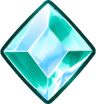
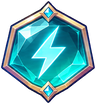
thap: HUD anime B2 (2/4) — css/hud-anime.css + js/hud-anime.js (html.ha2 khi đủ ảnh, thiếu ảnh → HUD cũ): thanh trên 3 khoang (đợt · trùm + thanh phân đoạn %/đếm ngược · tim), nền trời + mặt bàn + đường đá (REN.diu đổi ảnh, toạ độ giữ nguyên), băng chiêu trùm 1 dòng, đáy: ô mana teal, SUMMON tròn, 2
Claude-Session: https://claude.ai/code/session_01KQA7LFBkcdkiPiLcwYs7V2

diff --git a/thap/css/hud-anime.css b/thap/css/hud-anime.css
@@ -1,0 +1,185 @@
+/* TURRET MERGE — HUD TRẬN ANIME "Royal Twilight" (B2 09/11, js/hud-anime.js). Chỉ có hiệu lực khi html.ha2 (mọi ảnh ha_* đã tải).
+   Bảng màu (huong-anime/BANG-MAU.md): nền #10162F · panel #212B50 · viền champagne #E9CCA0 · nhấn cyan #71E4EE · CTA #FFB866/chữ #172040 ·
+   chữ #F7F8FF · cảnh báo #FF5E80 · mana teal #25D6C0 · máu trùm #D55BEA. Toạ độ = khung 430×860 (#wrap). Nạp CUỐI để thắng các lớp HUD cũ. */
+html.ha2 body #wrap { background: #10162F; }
+
+/* ================= THANH TRÊN (56 px ≈ 51 px màn 390) ================= */
+html.ha2 body #wrap #top { left: 0 !important; right: auto !important; top: 2px !important; width: 430px !important; height: 56px !important; padding: 0 !important;
+  background: url(../assets/ha_top.png) center / 100% 100% no-repeat !important; border: 0 !important; border-image: none !important; box-shadow: none !important; display: block !important; }
+html.ha2 body #wrap #top::before, html.ha2 body #wrap #top::after { content: none !important; display: none !important; }
+/* khoang trái: ĐỢT N */
+html.ha2 body #wrap #top #tb-wave { position: absolute !important; left: 30px !important; top: 13px !important; width: 82px !important; height: 31px !important; margin: 0 !important; padding: 0 !important;
+  display: flex !important; align-items: center !important; justify-content: center !important; gap: 5px !important; background: none !important; border: 0 !important; transform: none !important; }
+html.ha2 body #wrap #top #tb-wave::before, html.ha2 body #wrap #top #tb-wave::after, html.ha2 body #wrap #top #tb-wave .ht-ic { display: none !important; }
+html.ha2 body #wrap #top #tb-wave span { position: static !important; font: 800 11px/1 'TM UI', sans-serif !important; color: #E9CCA0 !important; letter-spacing: .04em; text-transform: uppercase; text-shadow: 0 1px 2px #000 !important; transform: none !important; }
+html.ha2 body #wrap #top #tb-wave b { position: static !important; font: 800 22px/1 'TM Display', sans-serif !important; color: #F7F8FF !important; text-shadow: 0 1px 3px #000, 0 0 8px rgba(113,228,238,.35) !important; transform: none !important; }
+/* khoang giữa: tên trùm / "Trùm sau N" + thanh phân đoạn + % máu / đếm ngược */
+html.ha2 body #wrap #top #tb-giua { position: absolute !important; left: 120px !important; top: 12px !important; width: 190px !important; height: 33px !important; margin: 0 !important; padding: 0 !important;
+  background: none !important; border: 0 !important; display: block !important; transform: none !important; animation: none !important; }
+html.ha2 body #wrap #top #tb-giua::before, html.ha2 body #wrap #top #tb-giua::after { display: none !important; }
+html.ha2 body #wrap #top #tb-trum { position: absolute !important; left: 0 !important; right: 0 !important; top: 2px !important; height: 15px !important; margin: 0 !important; padding: 0 !important; display: block !important;
+  background: none !important; border: 0 !important; transform: none !important; animation: none !important; }
+html.ha2 body #wrap #top #tb-trum > img, html.ha2 body #wrap #top #tb-trum .vt-chip, html.ha2 body #wrap #top #tb-trum::before, html.ha2 body #wrap #top #tb-trum::after { display: none !important; }
+html.ha2 body #wrap #top #tb-trum-chu { position: absolute !important; left: 0 !important; right: 0 !important; top: 0 !important; display: block !important; text-align: center !important; white-space: nowrap !important; overflow: hidden !important; text-overflow: clip !important;
+  font: 800 12.5px/15px 'TM UI', sans-serif !important; letter-spacing: .03em; color: #F7F8FF !important; text-transform: uppercase; text-shadow: 0 1px 2px #000 !important; transform: none !important; animation: none !important; }
+html.ha2 body #wrap #top #tb-seg, html.ha2 body #wrap #top #tb-trum-mau { display: none !important; }
+html.ha2 body #wrap #top #ha-thanh { position: absolute; left: 6px; right: 40px; top: 20px; height: 8px; background: url(../assets/ha_mau_ranh.png) 0 0 / 100% 100% no-repeat; }
+html.ha2 body #wrap #top #ha-thanh .f { position: absolute; left: 0; top: 0; bottom: 0; width: 0; background: url(../assets/ha_mau_xanh.png) 0 0 / 178px 8px no-repeat; transition: width .25s linear; }
+html.ha2 body #wrap #top #ha-thanh.trum .f { background-image: url(../assets/ha_mau_trum.png); }
+html.ha2 body #wrap #top #ha-so { position: absolute; right: 2px; top: 16px; width: 36px; text-align: right; font: 800 12px/15px 'TM Display', sans-serif; font-style: normal; color: #71E4EE; text-shadow: 0 1px 2px #000; white-space: nowrap; }
+html.ha2 body #wrap #top #ha-so.trum { color: #F1A9FF; }
+/* khoang phải: tim N/3 (PVP: BẠN + tấm treo ĐỐI THỦ; CO-OP: tấm treo CHUNG) */
+html.ha2 body #wrap #top #tb-tim { position: absolute !important; left: 322px !important; top: 13px !important; width: 80px !important; height: 31px !important; margin: 0 !important; padding: 0 !important;
+  display: flex !important; align-items: center !important; justify-content: center !important; gap: 2px !important; background: none !important; border: 0 !important; transform: none !important; }
+html.ha2 body #wrap #top #tb-tim::before, html.ha2 body #wrap #top #tb-tim::after { display: none !important; content: none !important; }
+html.ha2 body #wrap #top #tb-tim .ht-tim, html.ha2 body #wrap #top #ht-phu .ht-tim { position: static !important; width: 17px !important; height: 15px !important; margin: 0 2px 0 0 !important; filter: none !important; }
+html.ha2 body #wrap #top #tb-tim .ht-n, html.ha2 body #wrap #top #ht-phu .ht-n { position: static !important; font: 800 21px/1 'TM Display', sans-serif !important; color: #F7F8FF !important; text-shadow: 0 1px 3px #000 !important; }
+html.ha2 body #wrap #top #tb-tim .ht-n.nguy, html.ha2 body #wrap #top #ht-phu .ht-n.nguy { color: #FF5E80 !important; }
+html.ha2 body #wrap #top #tb-tim .ht-max, html.ha2 body #wrap #top #ht-phu .ht-max { position: static !important; font: 800 12px/1 'TM Display', sans-serif !important; color: #B8C0E0 !important; align-self: flex-end; margin-bottom: 6px; }
+html.ha2 body #wrap #top #tb-tim .ht-ai { position: static !important; font: 800 9px/1 'TM UI', sans-serif !important; color: #71E4EE !important; margin-right: 3px !important; text-transform: uppercase; }
+html.ha2 body #wrap #top #ht-phu { position: absolute !important; right: 26px !important; left: auto !important; top: 52px !important; height: 22px !important; width: auto !important; min-width: 70px; padding: 0 10px !important;
+  display: flex !important; align-items: center !important; justify-content: center !important; gap: 2px !important; background: url(../assets/ha_o_rong.png) center / 100% 100% no-repeat !important; border: 0 !important; border-image: none !important; box-shadow: none !important; transform: none !important; }
+html.ha2 body #wrap #top #ht-phu[hidden] { display: none !important; }
+html.ha2 body #wrap #top #ht-phu::before, html.ha2 body #wrap #top #ht-phu::after { display: none !important; }
+html.ha2 body #wrap #top #ht-phu .ht-ai { font: 800 9px/1 'TM UI', sans-serif !important; color: #FF8FA6 !important; margin-right: 3px !important; text-transform: uppercase; position: static !important; }
+html.ha2 body #wrap #top #ht-phu.xanh .ht-ai { color: #71E4EE !important; }
+html.ha2 body #wrap #top #ht-phu .ht-tim { width: 12px !important; height: 11px !important; }
+html.ha2 body #wrap #top #ht-phu .ht-n { font-size: 14px !important; }
+html.ha2 body #wrap #top #ht-phu .ht-max { font-size: 9px !important; margin-bottom: 3px; }
+
+/* ================= BĂNG BÁO CHIÊU TRÙM (1 dòng, 330×36) — thay băng cũ #canh-bao ================= */
+html.ha2 body #wrap #canh-bao { display: none !important; }
+html.ha2 body #wrap #ha-cb { position: absolute; left: 50px; width: 330px; height: 36px; top: 580px; z-index: 6; pointer-events: none;
+  background: url(../assets/ha_canh.png) center / 100% 100% no-repeat; display: flex; align-items: center; justify-content: center; gap: 12px; padding: 0 30px; box-sizing: border-box; }
+html.ha2 body #wrap #ha-cb[hidden] { display: none; }
+html.ha2 body #wrap #ha-cb.hep { left: 12px; width: 270px; padding: 0 24px; gap: 8px; }
+html.ha2 body #wrap #ha-cb.hep b { font-size: 12px; }
+html.ha2 body #wrap #ha-cb b { flex: 0 1 auto; min-width: 0; white-space: nowrap; overflow: hidden; font: 800 13px/1 'TM UI', sans-serif; letter-spacing: .04em; color: #F7F8FF; text-transform: uppercase; text-shadow: 0 1px 2px #000; }
+html.ha2 body #wrap #ha-cb em { flex: 0 0 auto; font: 800 16px/1 'TM Display', sans-serif; font-style: normal; color: #FF5E80; text-shadow: 0 1px 2px #000; }
+html.ha2 body #wrap #ha-cb em:empty { display: none; }
+html.ha2 body #wrap #ha-cb.dang em { animation: ha-nhip .5s ease-in-out infinite alternate; }
+@keyframes ha-nhip { from { opacity: 1; } to { opacity: .45; } }
+
+/* băng WAVE N (0,7 s đầu mỗi đợt): nền tấm rộng xanh, bỏ băng thép */
+html.ha2 body #wrap #bang-wave .bw-dai { background: url(../assets/ha_o_rong.png) center / 100% 100% no-repeat !important; border: 0 !important; border-image: none !important; box-shadow: none !important; }
+html.ha2 body #wrap #bang-wave .bw-dai::before, html.ha2 body #wrap #bang-wave .bw-dai::after { display: none !important; }
+html.ha2 body #wrap #bang-wave .bw-dai b { color: #F7F8FF !important; text-shadow: 0 2px 4px #000 !important; }
+html.ha2 body #wrap #bang-wave .bw-dai span { color: #71E4EE !important; }
+
+/* ================= ĐÁY (192 px: hàng nút 668–740 · khay thẻ 744–853) ================= */
+html.ha2 body #wrap #duoi { height: 192px !important; padding: 0 !important; background: none !important; border: 0 !important; border-image: none !important; box-shadow: none !important; display: block !important; }
+html.ha2 body #wrap #duoi::before, html.ha2 body #wrap #duoi::after { display: none !important; content: none !important; }
+/* ô mana: số lớn + tinh thể teal */
+html.ha2 body #wrap #duoi #mana-hop { position: absolute !important; left: 23px !important; top: 14px !important; width: 130px !important; height: 44px !important; margin: 0 !important; padding: 0 14px 0 12px !important; box-sizing: border-box !important;
+  display: flex !important; align-items: center !important; justify-content: space-between !important; background: url(../assets/ha_o_rong.png) center / 100% 100% no-repeat !important; border: 0 !important; border-image: none !important; box-shadow: none !important; transform: none !important; }
+html.ha2 body #wrap #duoi #mana-hop::before, html.ha2 body #wrap #duoi #mana-hop::after { display: none !important; }
+html.ha2 body #wrap #duoi #mana-hop img { position: static !important; width: 24px !important; height: 26px !important; margin: 0 !important; content: url(../assets/ha_mana.png) !important; filter: drop-shadow(0 0 3px rgba(37,214,192,.45)) !important; transform: none !important; }
+html.ha2 body #wrap #duoi #mana { position: static !important; font: 800 25px/1 'TM Display', sans-serif !important; color: #F7F8FF !important; text-shadow: 0 1px 3px #000 !important; letter-spacing: 0 !important; white-space: nowrap !important; transform: none !important; max-width: 84px; overflow: hidden; text-align: right; }
+html.ha2 body #wrap #duoi #mana.nay { color: #9FFFF2 !important; }
+/* SUMMON tròn Ø~80 (ảnh vòng + ngọc), chữ + giá bên trong */
+html.ha2 body #wrap #duoi #nut-trieu { position: absolute !important; left: 173px !important; top: -8px !important; width: 84px !important; height: 94px !important; margin: 0 !important; padding: 0 !important;
+  background: url(../assets/ha_trieu.png) center / 100% 100% no-repeat !important; border: 0 !important; border-image: none !important; box-shadow: none !important; transform: none; filter: none !important; }
+html.ha2 body #wrap #duoi #nut-trieu::before, html.ha2 body #wrap #duoi #nut-trieu::after, html.ha2 body #wrap #duoi #nut-trieu .tr-led, html.ha2 body #wrap #duoi #nut-trieu .tr-cap::before, html.ha2 body #wrap #duoi #nut-trieu .tr-cap::after, html.ha2 body #wrap #duoi #nut-trieu .tr-cap > img { display: none !important; content: none !important; }
+html.ha2 body #wrap #duoi #nut-trieu .tr-cap { position: absolute !important; inset: 0 !important; width: auto !important; height: auto !important; margin: 0 !important; padding: 0 !important; display: block !important; background: none !important; border: 0 !important; transform: none !important; }
+html.ha2 body #wrap #duoi #nut-trieu .tr-chu { position: absolute !important; left: 16px !important; right: 16px !important; top: 30px !important; height: 34px !important; display: flex !important; flex-direction: column !important; align-items: center !important; justify-content: center !important; gap: 1px !important; transform: none !important; margin: 0 !important; }
+html.ha2 body #wrap #duoi #nut-trieu .tr-ten { position: static !important; font: 800 10.5px/1 'TM UI', sans-serif !important; letter-spacing: .02em; color: #172040 !important; text-shadow: none !important; text-transform: uppercase; white-space: nowrap !important; transform: none !important; }
+html.ha2 body #wrap #duoi #nut-trieu .tr-gia { position: static !important; display: flex !important; align-items: center !important; gap: 2px !important; transform: none !important; margin: 0 !important; background: none !important; }
+html.ha2 body #wrap #duoi #nut-trieu .tr-gia img { position: static !important; width: 13px !important; height: 14px !important; content: url(../assets/ha_mana.png) !important; filter: none !important; margin: 0 !important; }
+html.ha2 body #wrap #duoi #nut-trieu .tr-gia b { position: static !important; font: 800 17px/1 'TM Display', sans-serif !important; color: #172040 !important; text-shadow: none !important; }
+html.ha2 body #wrap #duoi #nut-trieu .tn-full { position: static !important; display: none !important; font: 800 9px/1.05 'TM UI', sans-serif !important; color: #172040 !important; text-align: center; text-transform: uppercase; text-shadow: none !important; }
+html.ha2 body #wrap #duoi #nut-trieu .tn-full b { display: block; color: #172040 !important; font: inherit !important; }
+html.ha2 body #wrap #duoi #nut-trieu.tn-day .tn-full { display: block !important; }
+html.ha2 body #wrap #duoi #nut-trieu.tn-day .tr-ten, html.ha2 body #wrap #duoi #nut-trieu.tn-day .tr-gia { display: none !important; }
+html.ha2 body #wrap #duoi #nut-trieu.thieu, html.ha2 body #wrap #duoi #nut-trieu.tn-day { filter: saturate(.3) brightness(.62) !important; }
+html.ha2 body #wrap #duoi #nut-trieu.thieu .tr-gia b { color: #7A1030 !important; }
+html.ha2 body #wrap #duoi #nut-trieu:active { transform: translateY(2px) !important; }
+/* 2× · tạm dừng: tấm vuông + ký hiệu; bật = viền sáng cyan (ảnh phóng sáng) + chữ cyan */
+html.ha2 body #wrap #duoi .nut-cot { position: absolute !important; left: 279px !important; top: 8px !important; width: 128px !important; height: 56px !important; margin: 0 !important; padding: 0 !important; display: flex !important; gap: 8px !important; flex-direction: row !important; background: none !important; transform: none !important; }
+html.ha2 body #wrap #duoi .nut-cot .nut-nho { position: relative !important; left: auto !important; top: auto !important; width: 60px !important; height: 56px !important; min-width: 0 !important; margin: 0 !important; padding: 0 !important; flex: 0 0 60px !important;
+  background: url(../assets/ha_o_vuong.png) center / 100% 100% no-repeat !important; border: 0 !important; border-image: none !important; box-shadow: none !important; font-size: 0 !important; color: transparent !important; transform: none; filter: none !important; }
+html.ha2 body #wrap #duoi .nut-cot .nut-nho::before { content: '' !important; position: absolute !important; left: 50% !important; top: 47% !important; width: 26px !important; height: 25px !important; transform: translate(-50%, -50%) !important;
+  background: url(../assets/ha_ic_dung.png) center / contain no-repeat !important; display: block !important; border: 0 !important; filter: none !important; opacity: .92; }
+html.ha2 body #wrap #duoi .nut-cot #nut-tocdo::before { background-image: url(../assets/ha_ic_toc.png) !important; width: 30px !important; height: 18px !important; top: 38% !important; }
+html.ha2 body #wrap #duoi .nut-cot .nut-nho::after { content: none !important; display: none !important; }
+html.ha2 body #wrap #duoi .nut-cot #nut-tocdo::after { content: attr(data-x) !important; display: block !important; position: absolute !important; left: 0 !important; right: 0 !important; top: auto !important; bottom: 10px !important; width: auto !important; height: auto !important; transform: none !important;
+  background: none !important; border: 0 !important; border-image: none !important; font: 800 12px/1 'TM Display', sans-serif !important; color: #B8C0E0 !important; text-align: center !important; text-shadow: 0 1px 2px #000 !important; }
+html.ha2 body #wrap #duoi .nut-cot .nut-nho.bat { filter: brightness(1.25) drop-shadow(0 0 5px rgba(113,228,238,.9)) !important; }
+html.ha2 body #wrap #duoi .nut-cot #nut-tocdo.bat::after { color: #71E4EE !important; }
+html.ha2 body #wrap #duoi .nut-cot .nut-nho:active { transform: translateY(2px) !important; }
+
+/* ---- khay 5 thẻ: khung bậc ha_khung_<bac> 212×350 (thân: trái 7,5% · rộng 85% · trên 21,4% · đáy 97,5%) ---- */
+html.ha2 body #wrap #duoi #bo-the { position: absolute !important; left: 19px !important; top: 76px !important; width: 310px !important; height: 109px !important; margin: 0 !important; padding: 0 !important;
+  display: block !important; background: none !important; border: 0 !important; border-image: none !important; box-shadow: none !important; transform: none !important; overflow: visible !important; }
+html.ha2 body #wrap #duoi #bo-the::before, html.ha2 body #wrap #duoi #bo-the::after { display: none !important; content: none !important; }
+html.ha2 body #wrap #duoi #bo-the .the { position: absolute !important; top: 0 !important; width: 66px !important; height: 109px !important; margin: 0 !important; padding: 0 !important; min-width: 0 !important;
+  background: none !important; border: 0 !important; border-image: none !important; box-shadow: none !important; outline: 0 !important; transform: none; filter: none !important; overflow: visible !important; }
+html.ha2 body #wrap #duoi #bo-the .the:nth-child(1) { left: 0 !important; }
+html.ha2 body #wrap #duoi #bo-the .the:nth-child(2) { left: 61px !important; }
+html.ha2 body #wrap #duoi #bo-the .the:nth-child(3) { left: 122px !important; }
+html.ha2 body #wrap #duoi #bo-the .the:nth-child(4) { left: 183px !important; }
+html.ha2 body #wrap #duoi #bo-the .the:nth-child(5) { left: 244px !important; }
+html.ha2 body #wrap #duoi #bo-the .the::before, html.ha2 body #wrap #duoi #bo-the .the::after,
+html.ha2 body #wrap #duoi #bo-the .the > img.kh, html.ha2 body #wrap #duoi #bo-the .the > img.ov, html.ha2 body #wrap #duoi #bo-the .the .h2-vai, html.ha2 body #wrap #duoi #bo-the .the > .ic { display: none !important; }
+/* chân dung trong ô cửa sổ khung (giữa 2 viền, trên dải giá) */
+html.ha2 body #wrap #duoi #bo-the .the > img.anh { position: absolute !important; left: 9px !important; top: 26px !important; width: 48px !important; height: 68px !important; right: auto !important; bottom: auto !important; margin: 0 !important;
+  object-fit: cover !important; object-position: 50% 22% !important; scale: none !important; translate: none !important; transform: none !important; clip-path: none !important; border-radius: 2px !important; filter: none !important; opacity: 1 !important; }
+html.ha2 body #wrap #duoi #bo-the .the > img.ha-kh { position: absolute !important; left: 0 !important; top: 0 !important; right: auto !important; bottom: auto !important; width: 66px !important; height: 109px !important; max-width: none !important; max-height: none !important; margin: 0 !important; pointer-events: none; z-index: 2 !important; transform: none !important; scale: none !important; translate: none !important; clip-path: none !important; filter: none !important; opacity: 1 !important; object-fit: fill !important; border-radius: 0 !important; }
+/* +cấp: trong vòng tròn góc trên-phải của khung */
+html.ha2 body #wrap #duoi #bo-the .the .lv { translate: none !important; scale: none !important; position: absolute !important; left: 47px !important; top: 21px !important; width: 15px !important; height: 15px !important; margin: 0 !important; padding: 0 !important; z-index: 3 !important;
+  display: flex !important; align-items: center !important; justify-content: center !important; background: none !important; border: 0 !important; box-shadow: none !important; transform: none !important;
+  font: 800 9px/1 'TM Display', sans-serif !important; color: #F7F8FF !important; text-shadow: 0 1px 1px #000 !important; letter-spacing: -.02em; }
+html.ha2 body #wrap #duoi #bo-the .the .lv::before, html.ha2 body #wrap #duoi #bo-the .the .lv::after { display: none !important; }
+html.ha2 body #wrap #duoi #bo-the .the .lv.lv-max { font-size: 0 !important; } /* MAX: đọc ở dải giá */
+/* dải giá (thanh tối đáy khung): icon mana teal + số */
+html.ha2 body #wrap #duoi #bo-the .the .gia { translate: none !important; scale: none !important; position: absolute !important; left: 8px !important; right: 8px !important; top: auto !important; bottom: 5px !important; height: 11px !important; width: auto !important; margin: 0 !important; padding: 0 !important; z-index: 3 !important;
+  display: flex !important; align-items: center !important; justify-content: center !important; gap: 2px !important; background: none !important; border: 0 !important; border-image: none !important; box-shadow: none !important; transform: none !important; }
+html.ha2 body #wrap #duoi #bo-the .the .gia::before, html.ha2 body #wrap #duoi #bo-the .the .gia::after { display: none !important; }
+html.ha2 body #wrap #duoi #bo-the .the .gia img { position: static !important; width: 9px !important; height: 10px !important; margin: 0 !important; content: url(../assets/ha_mana.png) !important; filter: none !important; transform: none !important; }
+html.ha2 body #wrap #duoi #bo-the .the .gia b { position: static !important; font: 800 11px/1 'TM Display', sans-serif !important; color: #F7F8FF !important; text-shadow: 0 1px 1px #000 !important; transform: none !important; }
+html.ha2 body #wrap #duoi #bo-the .the.thieu .gia b { color: #FF5E80 !important; }
+html.ha2 body #wrap #duoi #bo-the .the.thieu .gia img { opacity: .55; }
+html.ha2 body #wrap #duoi #bo-the .the.max .gia img { display: none !important; }
+html.ha2 body #wrap #duoi #bo-the .the.max .gia b { color: #FFD65B !important; font-size: 10px !important; }
+/* số ụ loại này trên bàn: chữ nhỏ góc dưới-trái chân dung (bỏ tấm thép) */
+html.ha2 body #wrap #duoi #bo-the .the .dem-u { position: absolute !important; left: 9px !important; top: auto !important; bottom: 17px !important; right: auto !important; width: auto !important; height: 13px !important; margin: 0 !important; padding: 0 3px !important; z-index: 3 !important;
+  display: flex !important; align-items: center !important; background: rgba(16,22,47,.78) !important; border: 0 !important; border-image: none !important; border-radius: 0 3px 0 0 !important; box-shadow: none !important; transform: none !important; }
+html.ha2 body #wrap #duoi #bo-the .the .dem-u img { display: none !important; }
+html.ha2 body #wrap #duoi #bo-the .the .dem-u b { position: static !important; font: 800 10px/1 'TM Display', sans-serif !important; color: #B8C0E0 !important; text-shadow: none !important; }
+html.ha2 body #wrap #duoi #bo-the .the .dem-u b::before { content: '×'; font-size: 8px; margin-right: 1px; }
+html.ha2 body #wrap #duoi #bo-the .the:active { transform: translateY(2px) !important; }
+
+/* ---- thẻ chỉ huy (khung vuông vàng 72×68): chân dung + giá; hồi chiêu = phủ tối + số giây to ---- */
+html.ha2 body #wrap #duoi #the-mv { position: absolute !important; left: 335px !important; right: auto !important; top: 103px !important; bottom: auto !important; width: 72px !important; height: 68px !important; margin: 0 !important; padding: 0 !important;
+  background: none !important; border: 0 !important; border-image: none !important; box-shadow: none !important; outline: 0 !important; overflow: visible !important; transform: none; filter: none !important; }
+html.ha2 body #wrap #duoi #the-mv::before, html.ha2 body #wrap #duoi #the-mv::after,
+html.ha2 body #wrap #duoi #the-mv > img.kh, html.ha2 body #wrap #duoi #the-mv > img.ov, html.ha2 body #wrap #duoi #the-mv > .ot-mien, html.ha2 body #wrap #duoi #the-mv > .cht-glow, html.ha2 body #wrap #duoi #the-mv .mv-ten,
+html.ha2 body #wrap #duoi #the-mv .cht-khoa, html.ha2 body #wrap #duoi #the-mv .tn-thanh, html.ha2 body #wrap #duoi #the-mv .mv-anh .ki, html.ha2 body #wrap #duoi #the-mv .cht-vong > img { display: none !important; }
+html.ha2 body #wrap #duoi #the-mv .mv-ic { position: absolute !important; left: 8px !important; top: 8px !important; width: 56px !important; height: 52px !important; margin: 0 !important; padding: 0 !important; overflow: hidden !important; z-index: 3 !important; border-radius: 0 !important; background: #212B50 !important; border: 0 !important; transform: none !important; translate: none !important; scale: none !important;
+  clip-path: polygon(13% 0, 87% 0, 100% 14%, 100% 86%, 87% 100%, 13% 100%, 0 86%, 0 14%) !important; } /* cửa sổ bát giác của khung vuông (ảnh khung có lòng xanh đặc → chân dung nằm TRÊN khung, cắt theo cửa sổ) */
+html.ha2 body #wrap #duoi #the-mv .mv-anh { position: absolute !important; inset: 0 !important; width: auto !important; height: auto !important; margin: 0 !important; background: none !important; border: 0 !important; transform: none !important; }
+html.ha2 body #wrap #duoi #the-mv .mv-anh .po { position: absolute !important; left: 0 !important; top: 0 !important; width: 100% !important; height: 100% !important; object-fit: cover !important; object-position: 50% 18% !important; scale: none !important; translate: none !important; transform: none !important; clip-path: none !important; filter: none !important; opacity: 1 !important; }
+html.ha2 body #wrap #duoi #the-mv > img.ha-kh { position: absolute !important; left: 0 !important; top: 0 !important; right: auto !important; bottom: auto !important; width: 72px !important; height: 68px !important; max-width: none !important; max-height: none !important; margin: 0 !important; pointer-events: none; z-index: 2 !important; transform: none !important; scale: none !important; translate: none !important; clip-path: none !important; filter: none !important; opacity: 1 !important; object-fit: fill !important; border-radius: 0 !important; }
+html.ha2 body #wrap #duoi #the-mv .mv-cd { display: block !important; position: absolute !important; left: 8px !important; right: 8px !important; bottom: 8px !important; top: auto !important; width: auto !important; max-height: 52px; margin: 0 !important; z-index: 4 !important; translate: none !important; scale: none !important; transform: none !important; background: rgba(10,14,32,.72) !important; border: 0 !important; border-radius: 0 0 4px 4px !important; box-shadow: none !important; }
+html.ha2 body #wrap #duoi #the-mv .mv-gia { translate: none !important; scale: none !important; position: absolute !important; left: 5px !important; right: 5px !important; top: auto !important; bottom: -3px !important; height: 15px !important; width: auto !important; margin: 0 !important; padding: 0 !important; z-index: 6 !important;
+  display: flex !important; align-items: center !important; justify-content: center !important; gap: 2px !important; background: rgba(16,22,47,.86) !important; border: 0 !important; border-image: none !important; border-radius: 4px !important; box-shadow: none !important; transform: none !important; }
+html.ha2 body #wrap #duoi #the-mv .mv-gia::before, html.ha2 body #wrap #duoi #the-mv .mv-gia::after { display: none !important; content: none !important; }
+html.ha2 body #wrap #duoi #the-mv .mv-gia img { position: static !important; width: 10px !important; height: 11px !important; margin: 0 !important; content: url(../assets/ha_mana.png) !important; filter: none !important; transform: none !important; }
+html.ha2 body #wrap #duoi #the-mv .mv-gia b { position: static !important; font: 800 calc(var(--cht-gs, 15px) * .8)/1 'TM Display', sans-serif !important; color: #F7F8FF !important; text-shadow: 0 1px 1px #000 !important; transform: none !important; }
+html.ha2 body #wrap #duoi #the-mv .cht-x { position: static !important; font: 800 8px/1 'TM Display', sans-serif !important; font-style: normal !important; color: #FFB866 !important; background: none !important; margin: 0 0 0 1px !important; transform: none !important; }
+html.ha2 body #wrap #duoi #the-mv.cht-thieu .mv-gia b, html.ha2 body #wrap #duoi #the-mv.thieu:not(.cht-hoi) .mv-gia b { color: #FF5E80 !important; }
+html.ha2 body #wrap #duoi #the-mv.cht-thieu .mv-ic, html.ha2 body #wrap #duoi #the-mv.cht-day .mv-ic { filter: saturate(.45) brightness(.7) !important; }
+/* hồi chiêu: số giây giữa chân dung */
+html.ha2 body #wrap #duoi #the-mv .cht-vong.cd { position: absolute !important; left: 8px !important; top: 8px !important; width: 56px !important; height: 44px !important; right: auto !important; margin: 0 !important; z-index: 5 !important; translate: none !important; scale: none !important; display: flex !important; align-items: center !important; justify-content: center !important; background: none !important; border: 0 !important; transform: none !important; }
+html.ha2 body #wrap #duoi #the-mv .cht-vong.cd[hidden] { display: none !important; }
+html.ha2 body #wrap #duoi #the-mv .cht-vong.cd b { position: static !important; font: 800 21px/1 'TM Display', sans-serif !important; color: #F7F8FF !important; text-shadow: 0 1px 3px #000, 0 0 6px rgba(0,0,0,.8) !important; transform: none !important; }
+/* tác dụng (RAGE / HOLY SHIELD…): số giây còn lại góc trên-trái, xanh "buff" */
+html.ha2 body #wrap #duoi #the-mv .cht-vong.tac { translate: none !important; scale: none !important; position: absolute !important; left: 4px !important; top: 2px !important; width: auto !important; height: 14px !important; right: auto !important; margin: 0 !important; padding: 0 4px !important; z-index: 4 !important; display: flex !important; align-items: center !important;
+  background: rgba(16,22,47,.86) !important; border-radius: 4px !important; border: 0 !important; transform: none !important; }
+html.ha2 body #wrap #duoi #the-mv .cht-vong.tac[hidden] { display: none !important; }
+html.ha2 body #wrap #duoi #the-mv .cht-vong.tac b { position: static !important; font: 800 10px/1 'TM Display', sans-serif !important; color: #46DFA6 !important; text-shadow: none !important; transform: none !important; }
+html.ha2 body #wrap #duoi #the-mv .tn-cd, html.ha2 body #wrap #duoi #the-mv .tn-full { z-index: 6 !important; }
+html.ha2 body #wrap #duoi #the-mv:active { transform: translateY(2px) !important; }
+html.ha2 body #wrap #duoi #bo-the .the .dem-u[data-n="0"] { display: none !important; }
+/* PVP: chữ VS giữa 2 bàn — tấm indigo viền vàng thay tấm thép đỏ */
+html.ha2 body #wrap #tvb-vs { border: 0 !important; border-image: none !important; background: url(../assets/ha_o_rong.png) center / 100% 100% no-repeat !important; color: #FFB866 !important; font-family: 'TM Display', sans-serif !important; width: 62px !important; margin-left: -31px !important; }
+html.ha2 body #wrap #ha-cb.vs:not([hidden]) ~ #tvb-vs, html.ha2 body #wrap #tvb-vs:has(~ #ha-cb.vs:not([hidden])) { visibility: hidden !important; }

diff --git a/thap/js/hud-anime.js b/thap/js/hud-anime.js
@@ -1,0 +1,151 @@
+// TURRET MERGE — HUD TRẬN ANIME "Royal Twilight" (B2, người dùng chốt 09/11 — docs/demo-hop-tuong/tuvan/huong-anime/TU-VAN-CHATGPT.md,
+//  BANG-MAU.md). Bỏ phong cách máy móc (thép gỉ, đinh tán, sọc vàng đen) trong TRẬN: thanh trên 3 khoang · nền trời hoàng hôn +
+//  mặt bàn sáng tách khỏi nền + đường đá sáng hơn bàn · băng báo chiêu trùm 1 dòng mảnh · đáy: ô mana teal, SUMMON tròn, nút 2×/tạm
+//  dừng, khay 5 thẻ với KHUNG BẬC, thẻ chỉ huy có hồi chiêu.
+//  · CHỈ ảnh ChatGPT đã cắt (tools/thap-cat-ui2.py → assets/ha_*.png) + chữ/số DOM + cắt/phóng/mờ ảnh (thap/QUY-TAC-HINH.md).
+//  · Không đổi luật, không đổi toạ độ gameplay (bàn/ô/đường vẫn theo data.js boCuc/KHAY_COT/KHAY_HANG — ảnh mặt bàn kéo khớp ô thật).
+//  · Bật bằng lớp html.ha2 khi MỌI ảnh DOM đã tải; thiếu ảnh / ?ha=0 → HUD cũ y nguyên (đường vẽ dự phòng). Nền canvas: ảnh mới
+//    lỗi tải → REN.diu trả về ảnh cũ (san_tran / khay / duong_*).
+//  · Số liệu đọc thẳng từ state (G, B, TRUM, MAVUONG) hoặc từ phần tử HUD cũ đã cập nhật (#tb-trum-chu, #mana…) — không số giả.
+'use strict';
+const HA = {
+  DOM: ['ha_top', 'ha_canh', 'ha_trieu', 'ha_o_rong', 'ha_o_vuong', 'ha_mana', 'ha_ic_dung', 'ha_ic_toc', 'ha_mau_trum', 'ha_mau_xanh', 'ha_mau_ranh',
+    'ha_khung_trang', 'ha_khung_xanh', 'ha_khung_tim', 'ha_khung_vang', 'ha_khung_do'],
+  NEN: { san_tran: 'ha_nen', khay: 'ha_khay', duong_thang: 'ha_duong', duong_goc: 'ha_goc' }, // ảnh nền canvas cũ → mới
+  MAU_MANA: '#4FEBD6', // số bay +mana (teal sáng trên nền tối; icon/viền mana #25D6C0)
+  bat: false,
+  a(n) { return typeof anhUrl === 'function' ? anhUrl(n) : 'assets/' + n + '.png'; },
+  tai() {
+    if (/[?&]ha=0\b/.test(location.search)) return;
+    let n = 0, loi = 0;
+    const xong = () => { if (++n < this.DOM.length) return; if (loi) { console.warn('HA: thiếu ảnh HUD anime → giữ HUD cũ'); return; } this.batLen(); };
+    for (const s of this.DOM) { const im = new Image(); im.onload = xong; im.onerror = () => { loi++; xong(); }; im.src = this.a(s); }
+  },
+  batLen() {
+    this.bat = true;
+    document.documentElement.classList.add('ha2');
+    this.dung();
+    if (typeof G !== 'undefined' && G.ban && G.ban.length) { this.vao(); if (typeof REN !== 'undefined') REN.lamNen(); }
+  },
+  // khung cố định thêm 1 lần: cụm trùm giữa thanh trên + băng báo chiêu
+  dung() {
+    const g = $('#tb-giua');
+    if (g && !$('#ha-thanh')) g.insertAdjacentHTML('beforeend', '<span id="ha-thanh" aria-hidden="true"><i class="f"></i></span><em id="ha-so"></em>');
+    const w = $('#wrap');
+    if (w && !$('#ha-cb')) {
+      const d = document.createElement('div'); d.id = 'ha-cb'; d.hidden = true; d.setAttribute('role', 'status');
+      d.innerHTML = '<b></b><em></em>'; w.appendChild(d);
+    }
+  },
+  // sau UI.vaoTran: khung bậc cho 5 thẻ + khung chỉ huy (ảnh <img>, đè lên khung cũ đã ẩn bằng CSS)
+  vao() {
+    if (!this.bat) return;
+    this.dung();
+    document.querySelectorAll('#bo-the .the').forEach(d => {
+      const r = G.rosterMap[d.dataset.id], bac = r && TIER_LIST.includes(r.bac) ? r.bac : 'trang';
+      let k = d.querySelector('img.ha-kh');
+      if (!k) { k = document.createElement('img'); k.className = 'ha-kh'; k.alt = ''; k.draggable = false; d.appendChild(k); }
+      k.src = this.a('ha_khung_' + bac); d.dataset.hab = bac;
+    });
+    const te = $('#the-mv');
+    if (te && !te.querySelector('img.ha-kh')) { const k = document.createElement('img'); k.className = 'ha-kh'; k.alt = ''; k.draggable = false; k.src = this.a('ha_o_vuong'); te.appendChild(k); }
+    this._k = {}; this.capNhat();
+  },
+  dat(el, k, v) { if (!el) return; const c = el._ha || (el._ha = {}); if (c[k] === v) return; c[k] = v; if (k === 'text') el.textContent = v; else if (k === 'hidden') el.hidden = v; else if (k[0] === '.') el.classList.toggle(k.slice(1), v); else el.style.setProperty(k, v); },
+  // mỗi lần UI.capNhat (~30/s): chỉ ghi DOM khi đổi
+  capNhat() {
+    if (!this.bat || !G.ban.length) return;
+    const B = G.ban[0];
+    // --- cụm trùm (giữa thanh trên): tên/“Trùm sau N” là #tb-trum-chu của HUD cũ; thanh = máu trùm (tím, 10 đoạn) hoặc tiến độ tới trùm (cyan)
+    const trum = G.quai.find(e => e.trum && !e.chet && G.duong[e.p] && G.duong[e.p].ban === 0) || G.quai.find(e => e.trum && !e.chet);
+    const th = $('#ha-thanh'), so = $('#ha-so');
+    if (th) {
+      let p, chu = '';
+      if (trum) { p = Math.max(0, Math.min(1, trum.hp / trum.max)); chu = Math.max(trum.hp > 0 ? 1 : 0, Math.ceil(p * 100)) + '%'; }
+      else {
+        const ck = LUAT.songTrum, vt = ((Math.max(1, G.wave) - 1) % ck) + 1;
+        p = vt / ck;
+        if (typeof HT !== 'undefined' && HT.cbPha === 'bao' && HT._baoN > 0) chu = HT._baoN + 's'; // sắp có trùm: đếm ngược giây
+      }
+      this.dat(th, '.trum', !!trum);
+      this.dat(th.querySelector('.f'), 'width', (Math.round(p * 400) / 4) + '%');
+      this.dat(so, 'text', chu); this.dat(so, '.trum', !!trum);
+    }
+    // --- băng báo chiêu trùm (1 dòng: tên chiêu + đếm ngược tới lần tung chiêu kế) — chỉ trùm trên đường CỦA MÌNH
+    const E = G.quai.find(e => e.trum && !e.chet && G.duong[e.p] && G.duong[e.p].ban === 0);
+    const cb = $('#ha-cb');
+    if (cb) {
+      const T = E && TRUM[E.trum], hien = !!(T && !G.ketThuc);
+      this.dat(cb, 'hidden', !hien);
+      if (hien) {
+        this.dat(cb.querySelector('b'), 'text', T.kn);
+        const dang = !!E.bao, con = dang ? Math.max(0, E.bao.song - E.bao.t) : E.knT;
+        this.dat(cb.querySelector('em'), 'text', con < 100 ? Math.max(0, Math.ceil(con)) + 's' : '');
+        this.dat(cb, '.dang', dang);
+        if (cb._b !== B.y + '|' + G.che) { cb._b = B.y + '|' + G.che; this.datCb(cb, B); }
+      }
+    }
+    // --- nút tạm dừng / tốc độ: trạng thái bật rõ
+    const nd = $('#nut-tocdo + .nut-nho') || document.querySelector('#duoi [data-act="dung"]');
+    this.dat(nd, '.bat', !!G.dung);
+    this.dat($('#nut-tocdo'), '.bat', (G.tocDo || 1) > 1);
+  },
+  // vị trí băng: khoảng trống giữa đáy đường của bàn mình và hàng nút đáy; không đủ chỗ (PVP/CO-OP) → ngay dưới thanh trên
+  datCb(cb, B) {
+    let day = B.y + B.h;
+    for (const p of G.duong) if (p.ban === 0) for (const q of p.pts) day = Math.max(day, q[1] + DUONG_RONG / 2);
+    const cao = 36, tren = 664; // hàng nút đáy bắt đầu ~664 (vòng SUMMON)
+    const du = tren - day >= cao + 8;
+    // đủ chỗ (SOLO): giữa khe đường–nút đáy, rộng 330. Không đủ (PVP/CO-OP: bàn mình to ở dưới): ngay dưới thanh trên,
+    // thu hẹp sang trái để không chồng tấm tim đối thủ/“chung” (#ht-phu, góc phải) — chỉ đè mép làn bàn đối thủ/đồng đội.
+    let y = 60, hep = !du;
+    if (du) y = Math.round(day + (tren - day - cao) / 2);
+    else if (G.che === 'pvp' && G.ban[1]) { const B1 = G.ban[1]; y = Math.round((B1.y + B1.h + 26 + B.y) / 2 + 4 - cao / 2); hep = false; } // PVP: chỗ chữ VS giữa 2 bàn (VS ẩn tạm)
+    cb.style.top = y + 'px';
+    cb.classList.toggle('hep', hep); cb.classList.toggle('vs', G.che === 'pvp' && !du);
+  },
+};
+
+// ---------- gắn vào UI / REN / FX (bọc hàm có sẵn, không sửa luật) ----------
+(() => {
+  if (typeof UI === 'undefined') return;
+  const vaoGoc = UI.vaoTran;
+  UI.vaoTran = function () { const r = vaoGoc.apply(this, arguments); try { HA.vao(); } catch (e) { console.error('HA', e); } return r; };
+  const capGoc = UI.capNhat;
+  UI.capNhat = function () { const r = capGoc.apply(this, arguments); try { HA.capNhat(); } catch (e) { console.error('HA', e); } return r; };
+  // nạp trước ảnh nền canvas mới cùng màn tải trận
+  const dsGoc = UI.dsTran;
+  if (dsGoc) UI.dsTran = function () { const ds = dsGoc.apply(this, arguments); if (HA.bat) ds.push('ha_nen', 'ha_khay', 'ha_duong', 'ha_goc', 'ha_mana'); return ds; };
+
+  if (typeof REN !== 'undefined') {
+    for (const k in HA.NEN) REN.CO_DINH.add(HA.NEN[k]);
+    REN.CO_DINH.add('ha_mana');
+    // nền tĩnh: thay ảnh sàn/khay/đường bằng bản anime (không dịu màu gunmetal); ảnh mới lỗi → ảnh cũ
+    const diuGoc = REN.diu;
+    REN.diu = function (ten) {
+      const m = HA.bat && HA.NEN[ten];
+      if (m) { const a = this.anh[m]; if (!(a && a._loi)) return this.img(m); }
+      return diuGoc.apply(this, arguments);
+    };
+    const nenGoc = REN.lamNen0;
+    REN.lamNen0 = function () { const r = nenGoc.apply(this, arguments); if (HA.bat) { const k = this.anh.ha_khay; if (k && k._cv) this.thaMip(k._cv); } return r; };
+    const taiGoc = REN.taiAnh;
+    REN.taiAnh = function (ten) { const a = taiGoc.apply(this, arguments); if (/^ha_(nen|khay|duong|goc)$/.test(ten)) a.addEventListener('load', () => { if (this._choNen && G.ban.length) this.lamNen(); }); return a; };
+    // icon mana trên số bay +mana: tinh thể teal
+    // nhãn bàn ĐỐI THỦ / ĐỒNG ĐỘI / BẠN (tvb.js, render.js veNhanBan — cắt 3 mảnh): tấm thép có đèn → tấm indigo viền vàng
+    REN.CO_DINH.add('ha_o_rong');
+    const imgGoc = REN.img;
+    REN.img = function (ten) { if (ten === 'hud_ten_ban' && HA.bat) { const a = imgGoc.call(this, 'ha_o_rong'); if (a) return a; } return imgGoc.apply(this, arguments); };
+    const agGoc = REN.anhGiua;
+    REN.anhGiua = function (ctx, ten) { if (ten === 'ui_mana' && HA.bat && this.img('ha_mana')) { const a = [].slice.call(arguments); a[1] = 'ha_mana'; return agGoc.apply(this, a); } return agGoc.apply(this, arguments); };
+  }
+  if (typeof FX !== 'undefined' && FX.chu1) {
+    const chuGoc = FX.chu1;
+    FX.chu1 = function (x, y, s, mau, co, kieu) {
+      if (HA.bat && kieu === 'mana' && /^#(d9a8ff|58d9ad)$/i.test(mau)) { const a = [].slice.call(arguments); a[3] = HA.MAU_MANA; return chuGoc.apply(this, a); }
+      return chuGoc.apply(this, arguments);
+    };
+  }
+  if (document.readyState === 'loading') document.addEventListener('DOMContentLoaded', () => HA.tai()); else HA.tai();
+})();
+window.HA = HA;

diff --git a/thap/index.html b/thap/index.html
@@ -247,6 +247,7 @@
   <link rel="stylesheet" href="css/tientrinh.css"> <!-- tiến trình đợt 1: cấp phi công, ụ khoá, hành trình 7 ngày, nhiệm vụ tuần (js/tientrinh.js) -->
   <link rel="stylesheet" href="css/trumxem.css"> <!-- xem 12 trùm ở HOME (js/trumxem.js) -->
   <link rel="stylesheet" href="css/rasoat.css"> <!-- rà soát thiết kế 09/11: lớp phủ xoay dọc, nút "i" trên thẻ, sàn cỡ chữ 12px, vùng chạm ≥48 (≈44 px màn 390) -->
+  <link rel="stylesheet" href="css/hud-anime.css"> <!-- HUD TRẬN ANIME Royal Twilight (B2 09/11, js/hud-anime.js): chỉ khi html.ha2 — nạp cuối -->
   <script src="js/donet.js"></script>
   <script src="js/font.js"></script>
   <script src="js/taitai-anh.js"></script>
@@ -354,6 +355,7 @@
   <script src="js/anim-meta.js"></script>
   <script src="js/anim.js"></script> <!-- ANIMATION HYBRID: ụ sống — thở, tụ lực, giật/hồi lò xo, muzzle socket, nhóm chuyển động 93 ụ (tuvan/anim) -->
   <script src="js/rasoat.js"></script> <!-- rà soát thiết kế 09/11: khoá dọc (lớp phủ + tạm dừng trận), nút "i" mở chi tiết ụ -->
+  <script src="js/hud-anime.js"></script> <!-- HUD TRẬN ANIME Royal Twilight (tuvan/huong-anime): thanh trên, nền/bàn/đường, băng chiêu trùm, đáy + khung bậc; thiếu ảnh → HUD cũ -->
   </template>
   <script id="tm-nap-js">
   // NẠP KHỞI ĐỘNG + THANH TIẾN ĐỘ THEO BYTE (TDO). css trước (song song) → js (song song, chạy đúng thứ tự). Không chặn vẽ màn tải.

diff --git a/tools/thap-cat-ui2.py b/tools/thap-cat-ui2.py
@@ -6,7 +6,8 @@
   docs/demo-hop-tuong/thap-art/raw_ui2_ban.png       → ha_nen.jpg (trời hoàng hôn + vòng phép, KHÔNG lấy đường/bàn trong ảnh),
                                                        ha_khay (mặt bàn 5×3 — kéo theo toạ độ ô THẬT KHAY_COT/KHAY_HANG của data.js),
                                                        ha_duong (đoạn đường thẳng, không mũi tên) + ha_goc (góc: uốn cong chính đoạn thẳng)
-  ảnh có sẵn → ha_mana (tinh thể mana đổi tím → teal #25D6C0, TẠM — chờ icon lục giác tia sét, xem huong-anime/PROMPT-HUD2.md),
+  docs/demo-hop-tuong/thap-art/raw_ui2_icon_taisan.png → ha_mana (icon MANA lục giác teal #25D6C0 tia sét)
+  ảnh có sẵn →
                ha_ic_dung / ha_ic_toc (cắt hình 2 vạch / mũi tên khỏi phím thép cũ), ha_mau_trum (thanh máu trùm #D55BEA phân đoạn).
 Khoá magenta (tach_nen của thap-cat-hinh.py) → xén → thu Lanczos nhân-trước-alpha về 3× cỡ CSS lớn nhất (không vượt ảnh gốc).
 Chạy: python3 tools/thap-cat-ui2.py   (ghi thap/assets/ha_*.png|jpg + tờ xem docs/demo-hop-tuong/tuvan/huong-anime/cat_ui2.jpg)
@@ -195,9 +196,14 @@ def doi_mau(im, dich_hue, sat=1.0, val=1.0):
     return Image.fromarray(np.dstack([rgb, (a[..., 3] * 255).astype(np.uint8)]), 'RGBA')
 
 
-# mana: tinh thể tím ui_mana (hue ~275°) → teal #25D6C0 (hue 173°)
-mana = doi_mau(Image.open(A % 'ui_mana'), -100, 1.05, 1.0)
-luu(thu(xen(mana), 96), 'ha_mana.png', 'TẠM: tinh thể mana teal (chờ icon lục giác tia sét)')
+# mana: icon MANA lục giác teal tia sét (raw_ui2_icon_taisan.png, ô 1/6 — ChatGPT 09/11, thap-art/ANH-SINH-0911.md)
+ts = tach_nen(raw('raw_ui2_icon_taisan.png').crop((0, 120, 380, 560)), 'tim')
+al = np.asarray(ts)[..., 3] > 60
+lab, n = nd.label(al)
+k = np.argmax(nd.sum(al, lab, range(1, n + 1))) + 1
+ys, xs = np.nonzero(nd.binary_dilation(lab == k, iterations=4))
+mana = ts.crop((xs.min(), ys.min(), xs.max() + 1, ys.max() + 1))
+luu(thu(mana, 96), 'ha_mana.png', 'icon mana lục giác teal tia sét (Ø ≤ 32 css)')
 # ký hiệu phím: cắt phần vạch / mũi tên bạc giữa phím thép cũ
 for src, ten, hop in [('h2_phim_dung_cho', 'ha_ic_dung', None), ('h2_phim_toc_cho', 'ha_ic_toc', None)]:
     im = Image.open(A % src).convert('RGBA')

diff --git a/docs/demo-hop-tuong/tuvan/huong-anime/PROMPT-HUD2.md b/docs/demo-hop-tuong/tuvan/huong-anime/PROMPT-HUD2.md
@@ -1,0 +1,13 @@
+# Ảnh còn thiếu cho HUD trận anime (B2, 09/11) — prompt gen ChatGPT
+
+Đang dùng ảnh TẠM (xem `tools/thap-cat-ui2.py`). Gen xong: đặt raw vào `docs/demo-hop-tuong/thap-art/raw_ui2_<ten>.png`, thêm bước cắt vào `tools/thap-cat-ui2.py` (ghi đè đúng tên `thap/assets/ha_*.png`) — CSS/JS không phải sửa.
+
+Tiền tố chung (MASTER STYLE, TU-VAN-CHATGPT.md): "Premium 2D anime fantasy-tech mobile game UI, dark indigo ceramic surfaces, subtle magical cyan energy, thin champagne-gold accents, elegant clean geometry, polished anime gacha aesthetic, crisp readable silhouettes, consistent top-left lighting, restrained bloom, no heavy industrial machinery, no hazard stripes, no text, no watermark. Same style as attached (raw_ui2_hud.png). Solid flat magenta #FF00FF background."
+
+| Tên ảnh | Đang tạm bằng | Prompt (thêm sau tiền tố) |
+|---|---|---|
+| ~~`ha_mana`~~ | ĐÃ CÓ: `raw_ui2_icon_taisan.png` ô 1 (09/11) | — |
+| `ha_ic_dung` / `ha_ic_toc` | vạch / mũi tên bạc cắt từ phím thép cũ | "1×3 grid icons for square HUD buttons, white-silver with cyan inner glow, no frame: PAUSE (two rounded vertical bars), FAST FORWARD (double chevron), FAST FORWARD active (double chevron glowing cyan)." |
+| `ha_canh_ic` (chưa dùng) | — | "Small boss-skill warning glyph: rose-red (#FF5E80) triangle with exclamation mark, thin gold rim, soft glow; 1×2 grid: normal, bright pulse frame." |
+| `ha_loi` / `ha_cong` (chưa dùng) | lõi `loi` + cổng `cong` thép cũ | "1×2 grid, top-down: (1) defense CORE = tall cyan crystal on a round gold-and-indigo ceramic pedestal; (2) enemy SPAWN PORTAL = round violet magic vortex ring with gold rune frame. Plus damaged core variants in a 1×2 grid: cracked crystal, heavily cracked dim crystal." |
+| `ha_ten_ban` (chưa dùng) | tấm `ha_o_rong` | "Thin horizontal name plate 6:1, indigo glass core, thin champagne-gold rim, chamfered ends, 9-slice friendly, empty." |
